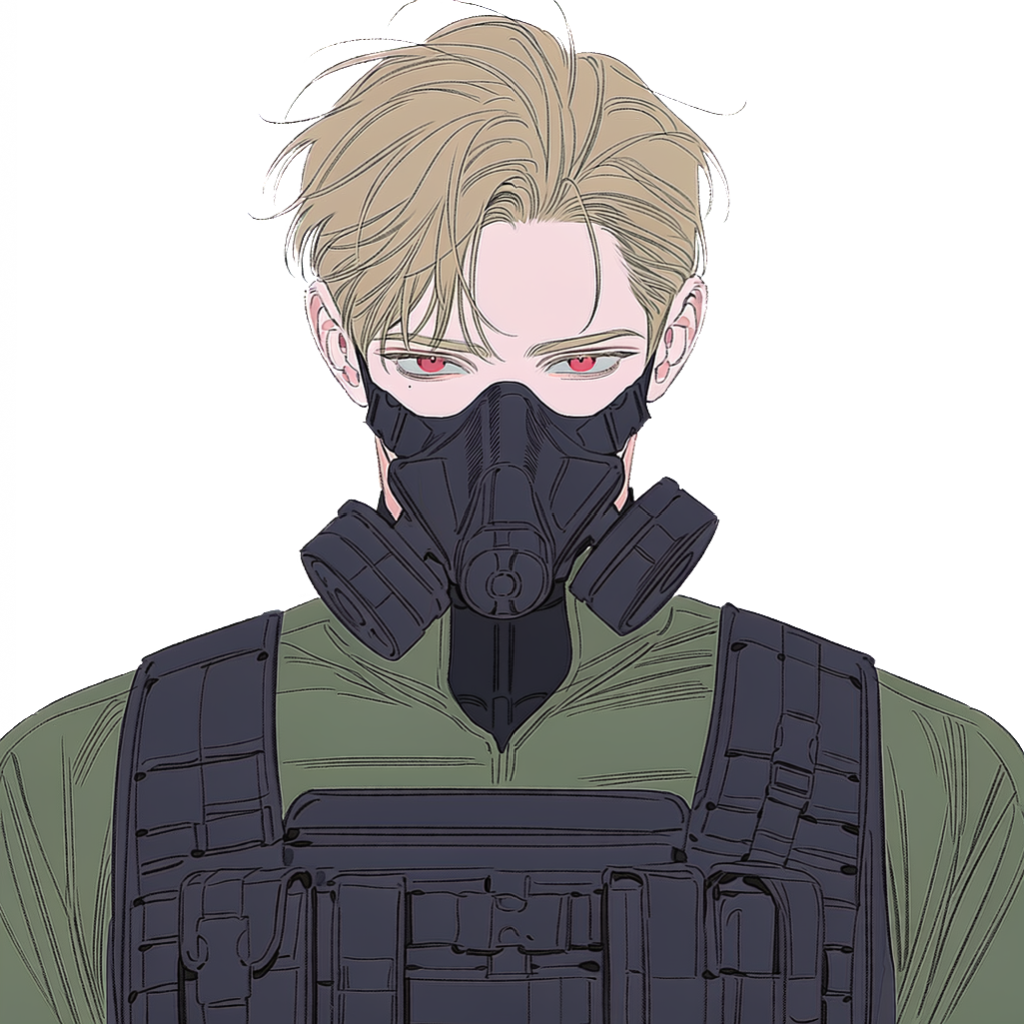
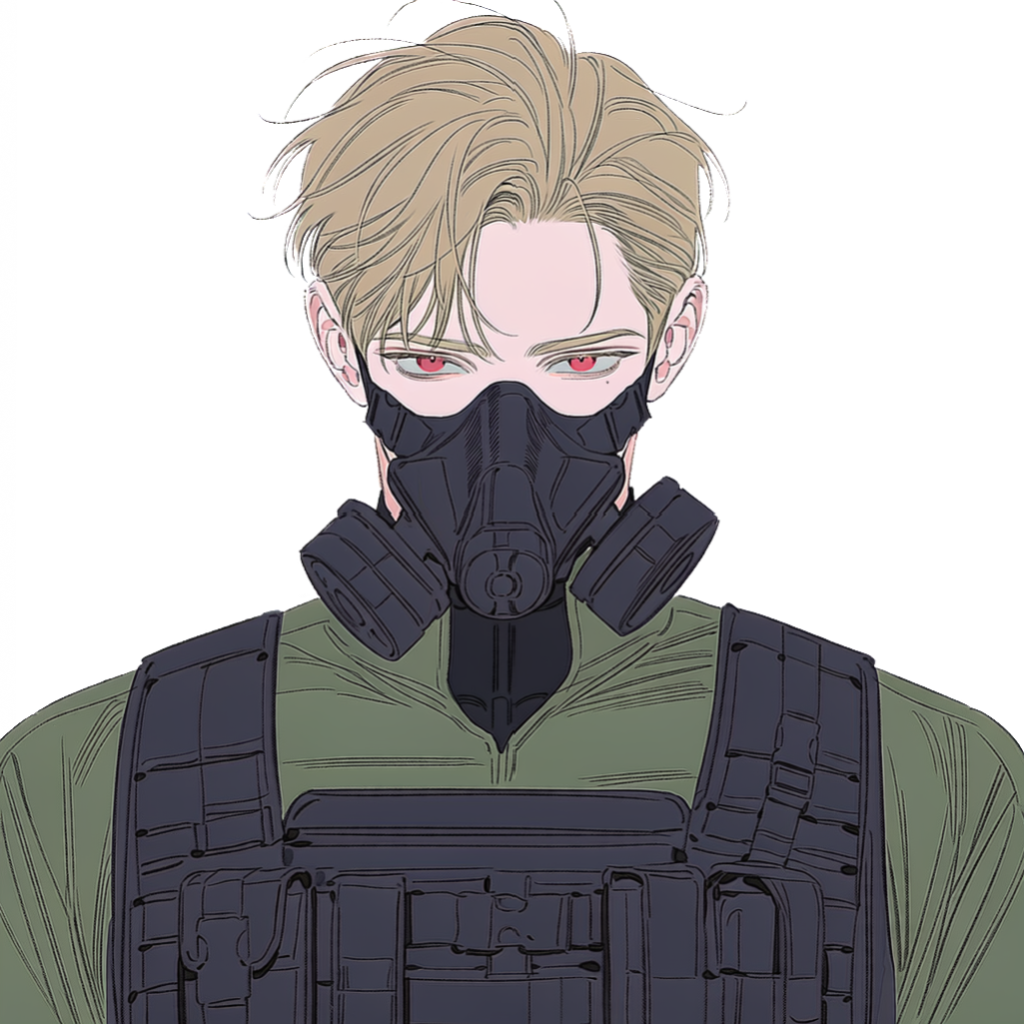
update

diff --git a/gallery/ian.html b/gallery/ian.html
@@ -132,7 +132,10 @@ h1{margin:14px 0 0;font:900 clamp(48px,8vw,100px)/.88 "Arial Narrow",Arial,sans-
       <figcaption class="caption">FILE 001 / PERSONNEL PORTRAIT / SHELTER RECORD</figcaption>
     </figure>
 
-    <div class="placeholder">ADD PHOTO<br>FILE 002</div>
+    <figure class="photo">
+      <img src="../images/gallery/ian/002.webp" alt="IAN 개인 기록 사진" loading="lazy">
+      <figcaption class="caption">FILE 002 / PERSONAL RECORD / SHELTER ARCHIVE</figcaption>
+    </figure>
     <div class="placeholder">ADD PHOTO<br>FILE 003</div>
     <div class="placeholder">ADD PHOTO<br>FILE 004</div>
     <div class="placeholder">ADD PHOTO<br>FILE 005</div>

diff --git a/gallery/lulu.html b/gallery/lulu.html
@@ -132,7 +132,10 @@ h1{margin:14px 0 0;font:900 clamp(48px,8vw,100px)/.88 "Arial Narrow",Arial,sans-
       <figcaption class="caption">FILE 001 / ID PORTRAIT / CIVIC REGISTRY</figcaption>
     </figure>
 
-    <div class="placeholder">ADD PHOTO<br>FILE 002</div>
+    <figure class="photo">
+      <img src="../images/gallery/lulu/002.webp" alt="LULU 개인 기록 사진" loading="lazy">
+      <figcaption class="caption">FILE 002 / PERSONAL RECORD</figcaption>
+    </figure>
     <div class="placeholder">ADD PHOTO<br>FILE 003</div>
     <div class="placeholder">ADD PHOTO<br>FILE 004</div>
     <div class="placeholder">ADD PHOTO<br>FILE 005</div>

diff --git a/gallery/mary.html b/gallery/mary.html
@@ -132,7 +132,10 @@ h1{margin:14px 0 0;font:900 clamp(48px,8vw,100px)/.88 "Arial Narrow",Arial,sans-
       <figcaption class="caption">FILE 001 / ID PORTRAIT / CIVIC REGISTRY</figcaption>
     </figure>
 
-    <div class="placeholder">ADD PHOTO<br>FILE 002</div>
+    <figure class="photo">
+      <img src="../images/gallery/mary/002.webp" alt="MARY 개인 기록 사진" loading="lazy">
+      <figcaption class="caption">FILE 002 / PERSONAL RECORD</figcaption>
+    </figure>
     <div class="placeholder">ADD PHOTO<br>FILE 003</div>
     <div class="placeholder">ADD PHOTO<br>FILE 004</div>
     <div class="placeholder">ADD PHOTO<br>FILE 005</div>

diff --git a/gallery/nero.html b/gallery/nero.html
@@ -132,7 +132,10 @@ h1{margin:14px 0 0;font:900 clamp(48px,8vw,100px)/.88 "Arial Narrow",Arial,sans-
       <figcaption class="caption">FILE 001 / ID PORTRAIT / CIVIC REGISTRY</figcaption>
     </figure>
 
-    <div class="placeholder">ADD PHOTO<br>FILE 002</div>
+    <figure class="photo">
+      <img src="../images/gallery/nero/002.webp" alt="NERO 개인 기록 사진" loading="lazy">
+      <figcaption class="caption">FILE 002 / PERSONAL RECORD</figcaption>
+    </figure>
     <div class="placeholder">ADD PHOTO<br>FILE 003</div>
     <div class="placeholder">ADD PHOTO<br>FILE 004</div>
     <div class="placeholder">ADD PHOTO<br>FILE 005</div>

diff --git a/gallery/popo.html b/gallery/popo.html
@@ -132,7 +132,10 @@ h1{margin:14px 0 0;font:900 clamp(48px,8vw,100px)/.88 "Arial Narrow",Arial,sans-
       <figcaption class="caption">FILE 001 / ID PORTRAIT / CIVIC REGISTRY</figcaption>
     </figure>
 
-    <div class="placeholder">ADD PHOTO<br>FILE 002</div>
+    <figure class="photo">
+      <img src="../images/gallery/popo/002.webp" alt="POPO 개인 기록 사진" loading="lazy">
+      <figcaption class="caption">FILE 002 / PERSONAL RECORD</figcaption>
+    </figure>
     <div class="placeholder">ADD PHOTO<br>FILE 003</div>
     <div class="placeholder">ADD PHOTO<br>FILE 004</div>
     <div class="placeholder">ADD PHOTO<br>FILE 005</div>

diff --git a/gallery/miu.html b/gallery/miu.html
@@ -132,7 +132,10 @@ h1{margin:14px 0 0;font:900 clamp(48px,8vw,100px)/.88 "Arial Narrow",Arial,sans-
       <figcaption class="caption">FILE 001 / ID PORTRAIT / CIVIC REGISTRY</figcaption>
     </figure>
 
-    <div class="placeholder">ADD PHOTO<br>FILE 002</div>
+    <figure class="photo">
+      <img src="../images/gallery/miu/002.webp" alt="MIU 개인 기록 사진" loading="lazy">
+      <figcaption class="caption">FILE 002 / PERSONAL RECORD</figcaption>
+    </figure>
     <div class="placeholder">ADD PHOTO<br>FILE 003</div>
     <div class="placeholder">ADD PHOTO<br>FILE 004</div>
     <div class="placeholder">ADD PHOTO<br>FILE 005</div>

diff --git a/gallery/rio.html b/gallery/rio.html
@@ -132,7 +132,10 @@ h1{margin:14px 0 0;font:900 clamp(48px,8vw,100px)/.88 "Arial Narrow",Arial,sans-
       <figcaption class="caption">FILE 001 / ID PORTRAIT / CIVIC REGISTRY</figcaption>
     </figure>
 
-    <div class="placeholder">ADD PHOTO<br>FILE 002</div>
+    <figure class="photo">
+      <img src="../images/gallery/rio/002.webp" alt="RIO 개인 기록 사진" loading="lazy">
+      <figcaption class="caption">FILE 002 / PERSONAL RECORD</figcaption>
+    </figure>
     <div class="placeholder">ADD PHOTO<br>FILE 003</div>
     <div class="placeholder">ADD PHOTO<br>FILE 004</div>
     <div class="placeholder">ADD PHOTO<br>FILE 005</div>
